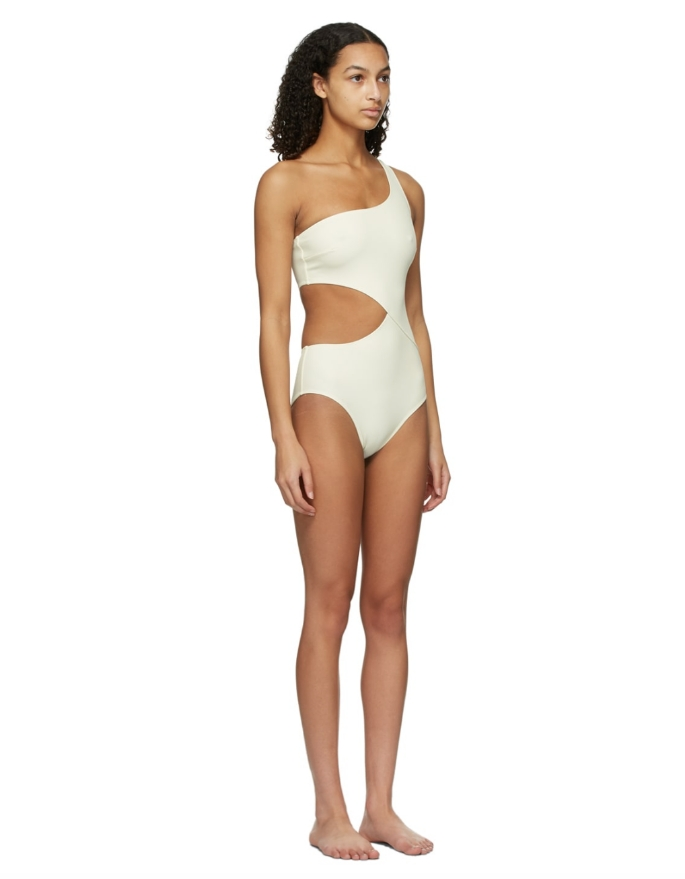
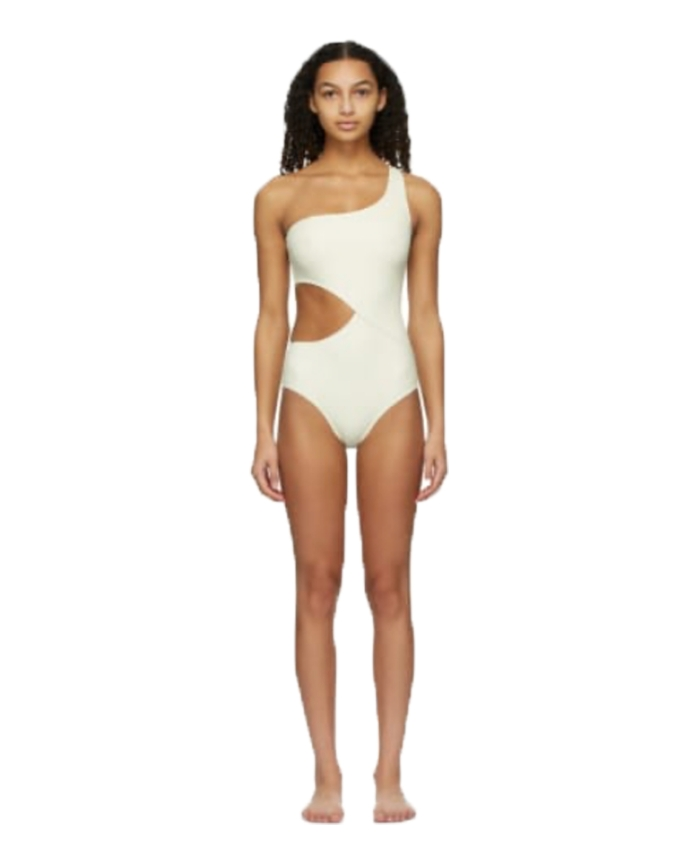
UPDATE - product images

Changed region(s): [[0.3679, 0.0, 0.6745, 1.0], [0.4292, 0.7812, 0.4599, 0.875]]

diff --git a/src/components/Product/ProductImage.jsx b/src/components/Product/ProductImage.jsx
@@ -2,8 +2,8 @@ import React from 'react'
 import { makeStyles } from '@material-ui/styles'
 import { Swiper, SwiperSlide } from 'swiper/react'
 // images
-import img1 from '../../assets/images/product/girl-product-1.jpg'
-import img2 from '../../assets/images/product/girl-product-2.jpg'
+import img1 from '../../assets/images/product/girl-product-2.jpg'
+import img2 from '../../assets/images/product/girl-product-3.jpg'
 
 const ProductImage = () => {
 	const classes = useStyles()
